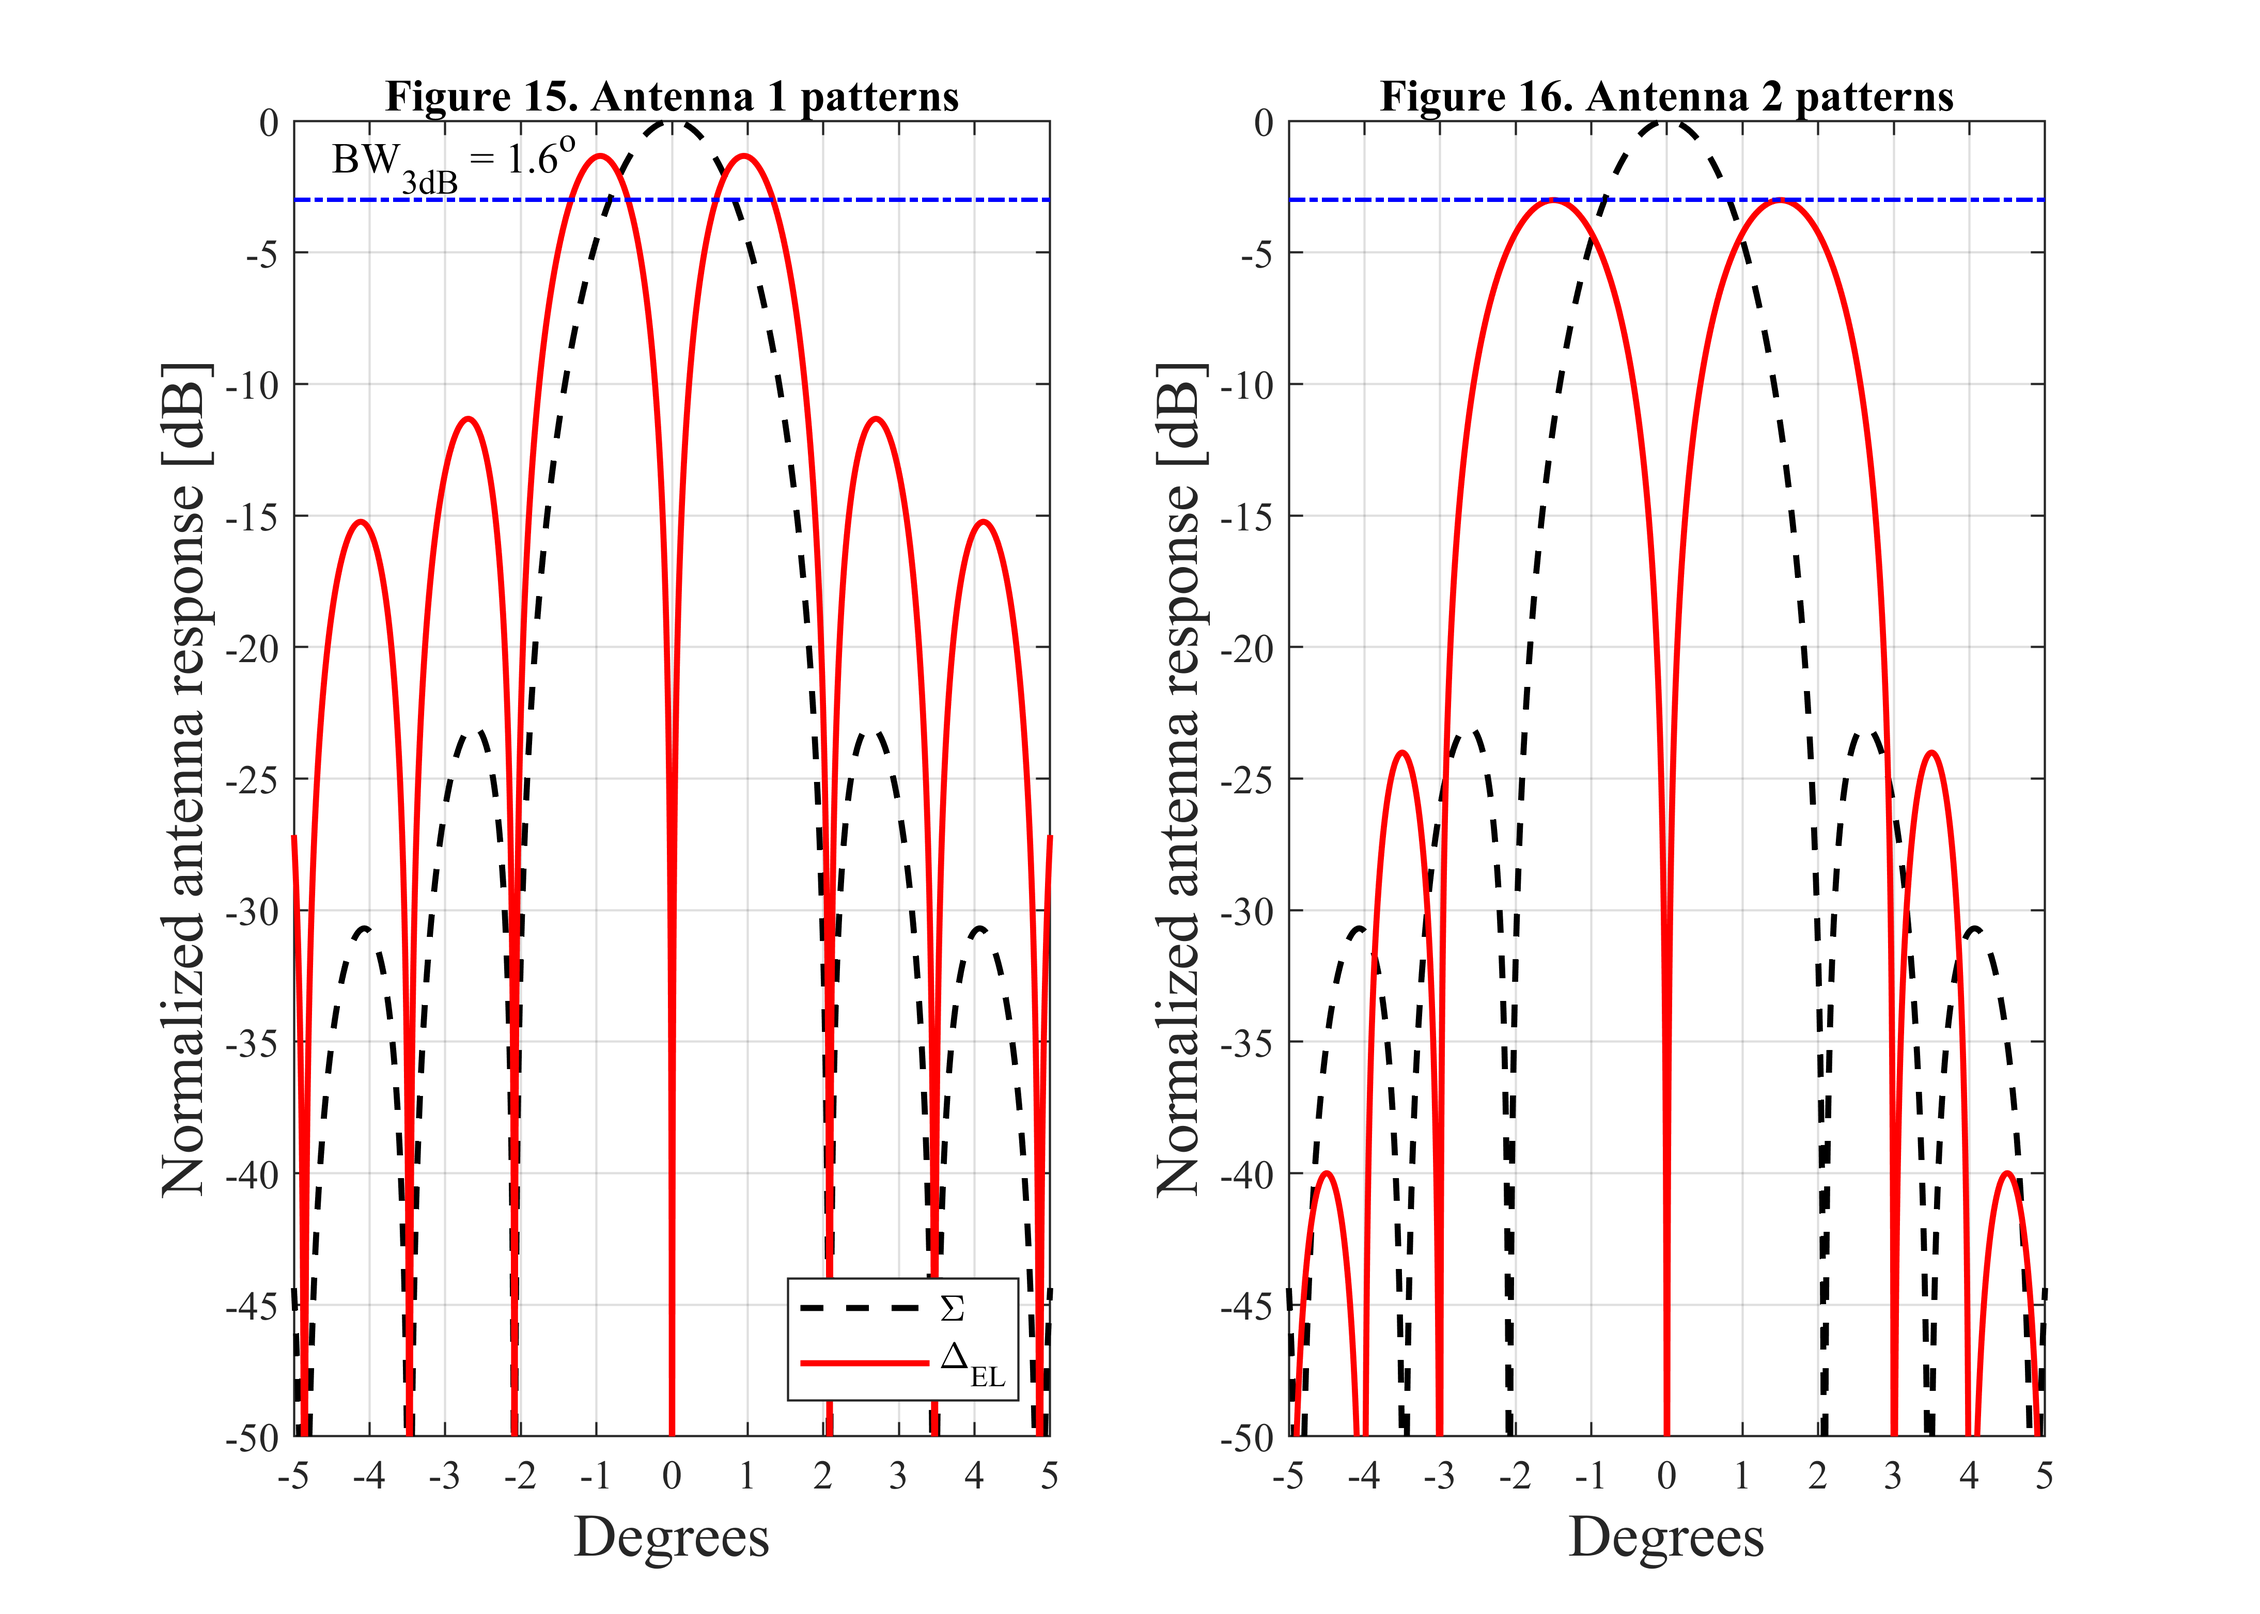
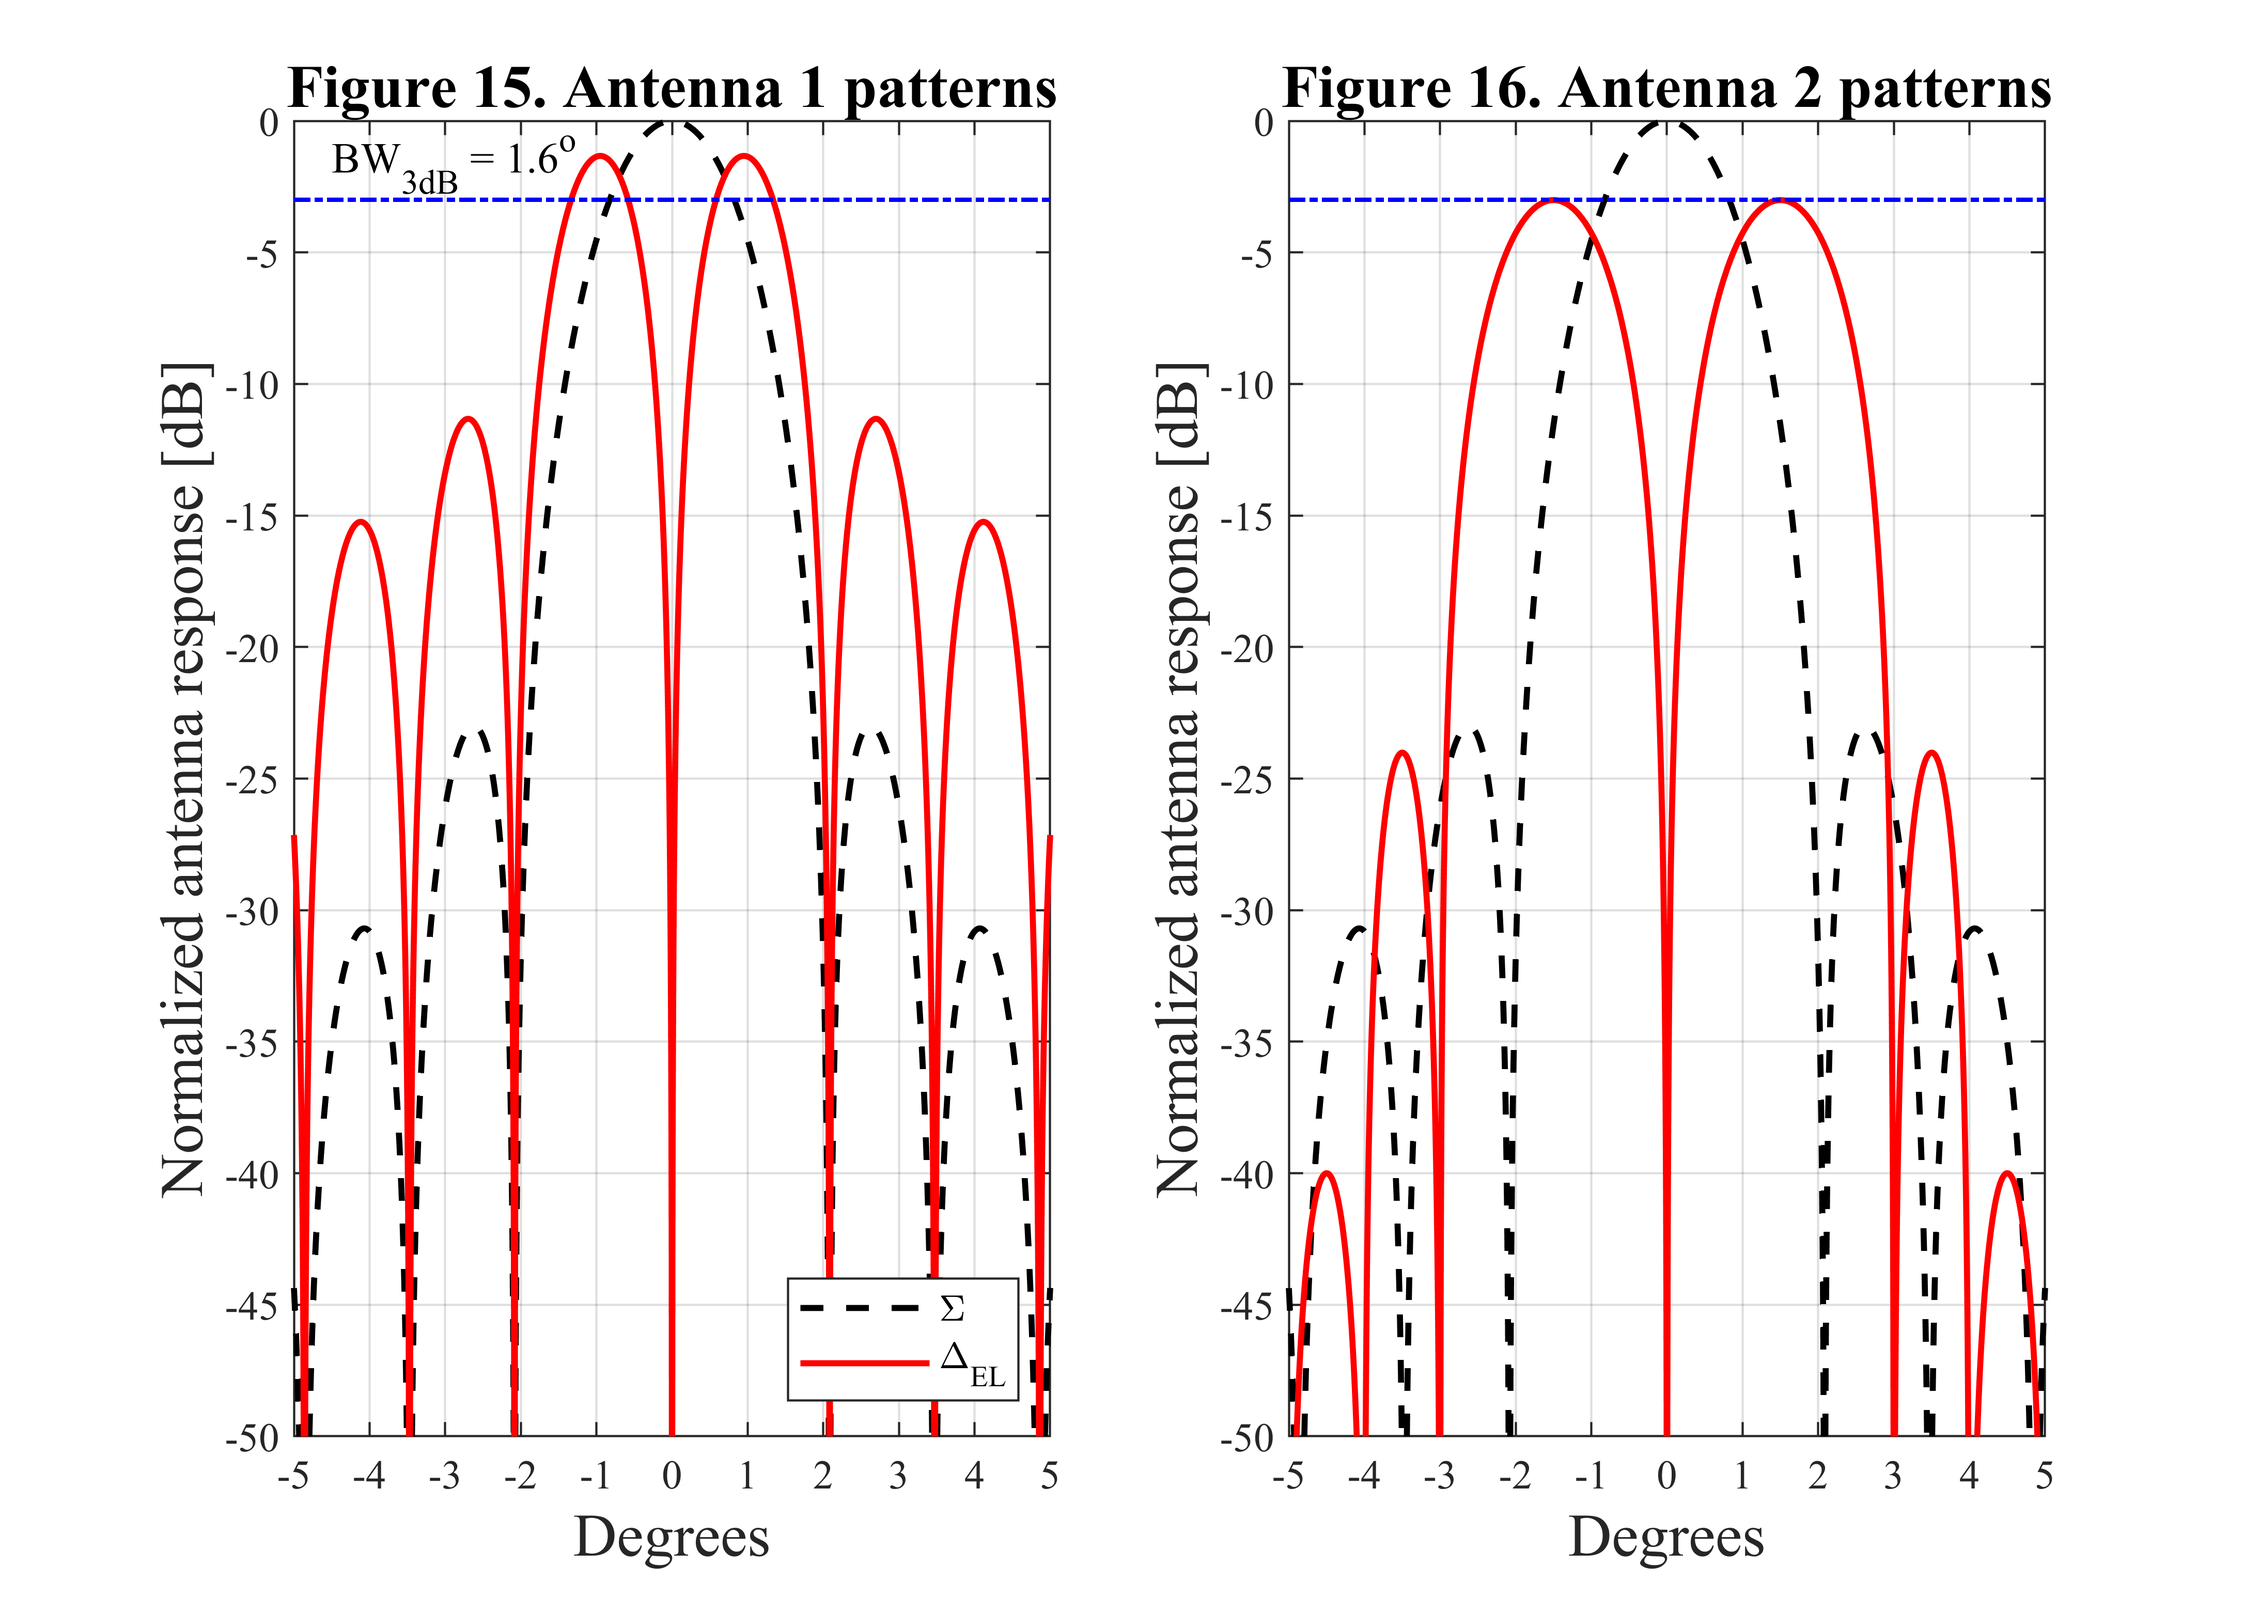
Add pltMULTSphericalEarth.m for plotting multipathModel_sphericalEarthSchematic.png, and update pltFig15_16.m to adjust figure title font size

Changed region(s): [[0.5595, 0.031, 0.9015, 0.0931], [0.1243, 0.031, 0.4663, 0.0931]]

diff --git a/pltMULTSphericalEarth.m b/pltMULTSphericalEarth.m
@@ -1,0 +1,98 @@
+% Schematic of multipath propagation over a spherical Earth
+%   Reference:
+%       [1] S. O. Dunlap and B. E. Pope, "Digital Simulation of Monopulse 
+%           Angle Tracking with Multipath Propagation," Tech. Rep. AD0748384, 
+%           U.S. Army Missile Command, Advanced Sensors Directorate, 
+%           Redstone Arsenal, AL, USA, May 31, 1972.
+%
+%   Description:
+%       This script reproduces the schematic of the spherical-Earth 
+%       multipath geometry described in [1, p.5, 40]. It computes the 
+%       antenna, target, and reflection-point locations, and plots the 
+%       propagation paths including the direct and ground-reflected rays.
+clc; clear; close all;
+tic;
+
+ft = 'Times';     % Time News Roman
+ft_size = 14;     % Font size
+set(0, 'defaultAxesFontName', ft, 'defaultTextFontName', ft,      ...
+    'defaultUipanelFontName', ft, 'defaultUicontrolFontName', ft, ...
+    'defaultUitableFontName', ft);
+
+imageName1 = './figures/multipathModel_sphericalEarthSchematic.png';
+%% Configuration
+AE = 8.5e6; % Effective Earth radius [m]
+numSamples = 1000;
+theta = pi / 180.e0 * linspace(60.e0, 92.e0, numSamples);
+
+HA = 10.e4; % Antenna height above Earth surface [m]
+offset = AE + HA;
+% Define the Earth surface profile
+XE = AE * cos(theta);
+ZE = AE * sin(theta) - offset;
+
+% Antenna coordinates (XA, YA, ZA)
+XA = 0.e0; YA = 0.e0;
+ZA = 0.e0;
+
+% Target coordinates (XT, YT, ZT)
+XT = 30.e5; YT = 0.e0;
+ZT = 10.e4;
+R = sqrt(XT * XT + YT * YT + ZT * ZT);
+XL = sqrt(R * R - ZT * ZT);
+
+%% Compute spherical-Earth multipath model from [1, p.40]
+Z = ZT + AE + HA;
+HT = sqrt(XL * XL + Z * Z) - AE;
+S = AE * acos(Z / sqrt(XL * XL + Z * Z));   % Arc length between antenna and target
+P = 2.e0 * sqrt(AE / 3.e0 * (HT + HA) + ((S / 2.e0)^2) / 3.e0);
+PHI = acos(2.e0 * AE * S * (HA - HT) / P^3);
+
+R1 = S / 2.e0 + P * cos((PHI + pi) / 3.e0); % Arc length from antenna to reflection point
+R2 = S - R1;                                % Arc length from reflection point to target
+ZL = AE * cos(R1 / AE); 
+XLM = sqrt(AE * AE - ZL * ZL);
+
+% Reflection point coordinates (XM, YM, ZM)
+ZM = ZL - AE - HA; 
+XM = XLM * cos(atan2(YT, XT));
+YM = XLM * sin(atan2(YT, XT));
+
+%% Plot geometry
+figure; set(gcf, 'Color', 'w');
+plot(XE, ZE, 'k-', 'LineWidth', 1.4); hold on;
+plot([XT, XA], [ZT, ZA], 'b-', 'LineWidth', 1.4); % Direct path
+plot([XA, XM], [ZA, ZM], 'r-', 'LineWidth', 1.4); % Incident path
+plot([XM, XT], [ZM, ZT], 'r-', 'LineWidth', 1.4); % Reflected path
+
+% Auxiliary lines to the Earth's center
+plot([XA, 0.0], [ZA, -offset], 'k--', 'LineWidth', 1.4);
+plot([XT, 0.0], [ZT, -offset], 'k--', 'LineWidth', 1.4);
+plot([XM, 0.0], [ZM, -offset], 'k--', 'LineWidth', 1.4);
+
+plot([XA, XA], [ZA, Z - offset], '-.', 'Color', [0.7, 0.7, 0.7], 'LineWidth', 1.4);
+plot([XA, XL], [Z - offset, ZT], '-.', 'Color', [0.7, 0.7, 0.7], 'LineWidth', 1.4);
+plot([XA, XLM], [ZM, ZM], '-.', 'Color', [0.7, 0.7, 0.7], 'LineWidth', 1.4); hold off;
+
+text(1.e6, 14.e4, 'X_L');
+text(0.2e6, -1.6e5, 'X_{LM}');
+text(-12.e4, 7.e4, 'Z_T');
+text(-12.e4, -4.e4, 'H_A');
+text(35.e4, -5.e5, 'A_E');
+text(2.9e6, -3.e5, 'H_T');
+
+xlim([-2.e5, 3.2e6]);
+ylim([-9.5e5, 3.e5]);
+xlabel('X [m]', 'FontSize', ft_size);
+ylabel('Z [m]', 'FontSize', ft_size); grid on;
+title('Schematic of multipath propagation over a spherical Earth', 'FontSize', ft_size);
+
+width = 700;
+height = 500;
+set(gcf, 'position', [300, 100, width, height]);
+
+% output the image
+% print(gcf, '-dpng', '-r600', imageName1);
+
+toc;
+return;

diff --git a/pltFig15_16.m b/pltFig15_16.m
@@ -57,18 +57,18 @@ legend('\Sigma', '\Delta_{EL}', 'Location', 'southeast');
 text(-4.5, -1.5, 'BW_{3dB} = 1.6^o');
 xlabel('Degrees', 'FontSize', ft_size);
 ylabel('Normalized antenna response [dB]', 'FontSize', ft_size); grid on;
-title('Figure 15. Antenna 1 patterns');
+title('Figure 15. Antenna 1 patterns', 'FontSize', ft_size);
 
 subplot(1, 2, 2);
 plot(ElDeg, Sum1_dB, 'k--', 'LineWidth', 1.4); hold on;
-plot(ElDeg, DfEl2_dB, 'r-', 'LineWidth', 1.4); hold on;
+plot(ElDeg, DfEl2_dB, 'r-', 'LineWidth', 1.4);
 plot([-5.0, 5.0], [-3.0, -3.0], 'b-.', 'LineWidth', 1.0); hold off;
 ylim([-50.0, 0.0]);
 xticks(-5 : 1 : 5);
 
 xlabel('Degrees', 'FontSize', ft_size);
 ylabel('Normalized antenna response [dB]', 'FontSize', ft_size); grid on;
-title('Figure 16. Antenna 2 patterns');
+title('Figure 16. Antenna 2 patterns', 'FontSize', ft_size);
 
 width = 700;
 height = 500;
